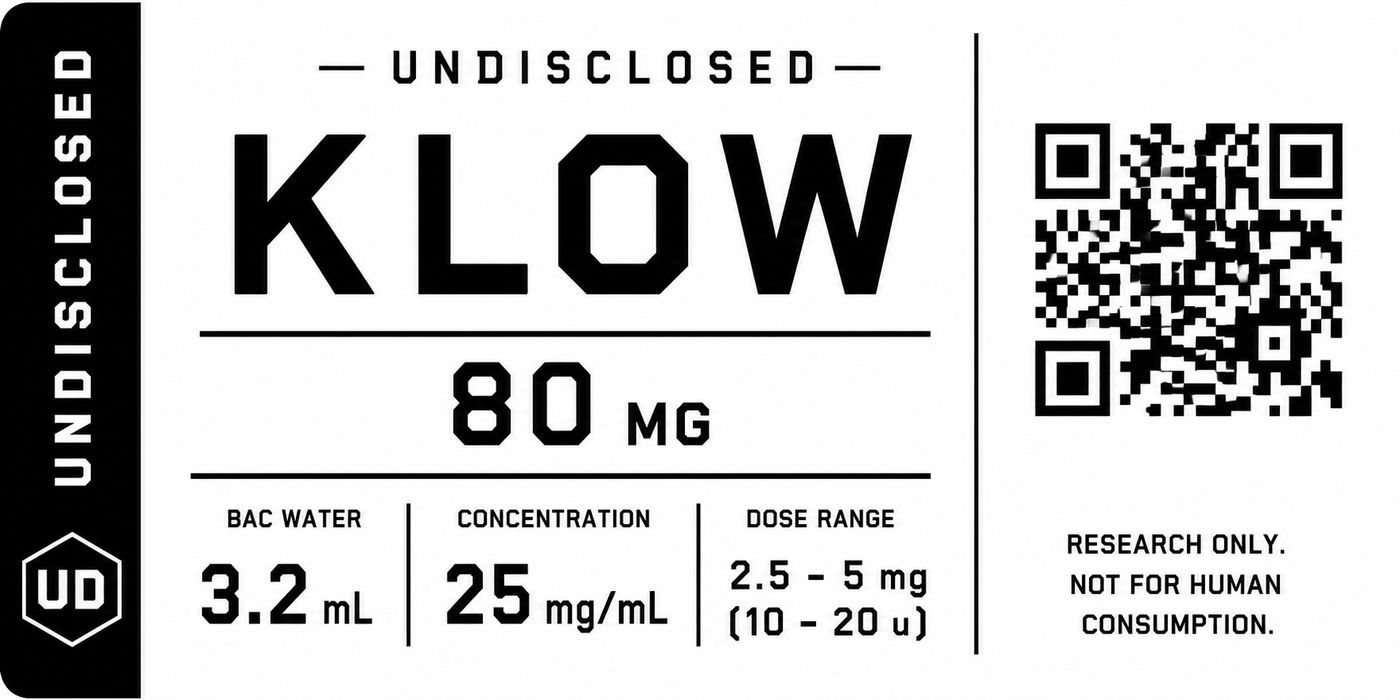
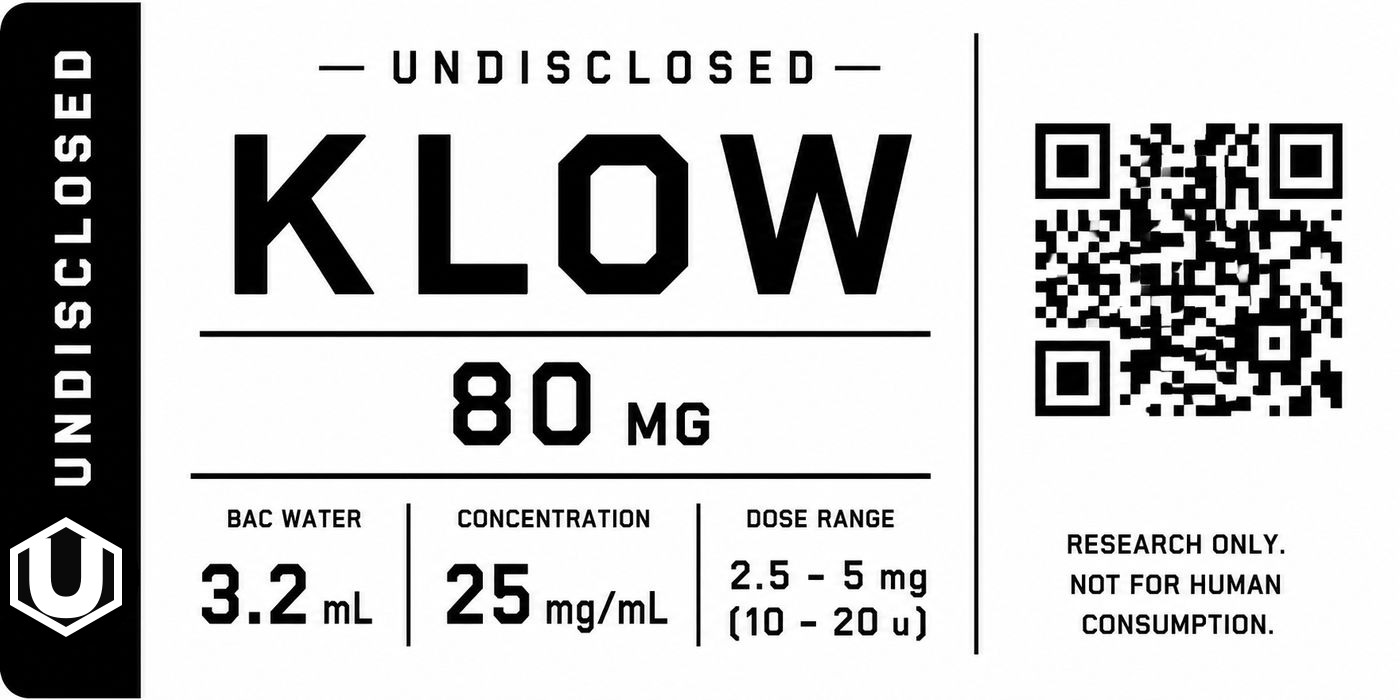
Fix Undisclosed U mark: bigger, centered, labels show U
Replace the small/off-center UD text with a bold geometric U in the hex monogram and label spine art, and update the flat label asset.

Changed region(s): [[0.0, 0.72, 0.0921, 0.93]]

diff --git a/src/utils/vialArt.js b/src/utils/vialArt.js
@@ -1532,7 +1532,7 @@ function fitCenteredText(ctx, text, maxWidth, basePx, family) {
   return size;
 }
 
-/** White hexagon with bold U letter (Undisclosed print mark). */
+/** White hexagon with a bold centered U (Undisclosed print mark). */
 function drawLabelSpineMark(ctx, cx, cy, r) {
   ctx.save();
   ctx.beginPath();
@@ -1547,7 +1547,7 @@ function drawLabelSpineMark(ctx, cx, cy, r) {
   ctx.fillStyle = "#ffffff";
   ctx.fill();
 
-  const inner = r * 0.82;
+  const inner = r * 0.76;
   ctx.beginPath();
   for (let i = 0; i < 6; i += 1) {
     const a = (Math.PI / 180) * (60 * i - 30);
@@ -1560,11 +1560,26 @@ function drawLabelSpineMark(ctx, cx, cy, r) {
   ctx.fillStyle = "#0a0a0a";
   ctx.fill();
 
+  // Map 128×128 U path into the inner hex, optically centered
+  const box = inner * 2;
+  const s = (box / 128) * 1.08;
+  ctx.translate(cx, cy - inner * 0.02);
+  ctx.scale(s, s);
+  ctx.translate(-64, -64);
+  ctx.beginPath();
+  ctx.moveTo(30, 30);
+  ctx.lineTo(50, 30);
+  ctx.lineTo(50, 66);
+  ctx.quadraticCurveTo(50, 84, 64, 84);
+  ctx.quadraticCurveTo(78, 84, 78, 66);
+  ctx.lineTo(78, 30);
+  ctx.lineTo(98, 30);
+  ctx.lineTo(98, 68);
+  ctx.quadraticCurveTo(98, 104, 64, 104);
+  ctx.quadraticCurveTo(30, 104, 30, 68);
+  ctx.closePath();
   ctx.fillStyle = "#ffffff";
-  ctx.textAlign = "center";
-  ctx.textBaseline = "middle";
-  ctx.font = `800 ${Math.max(14, r * 1.05)}px Outfit, "Arial Black", sans-serif`;
-  ctx.fillText("U", cx, cy + r * 0.04);
+  ctx.fill();
   ctx.restore();
 }
 
